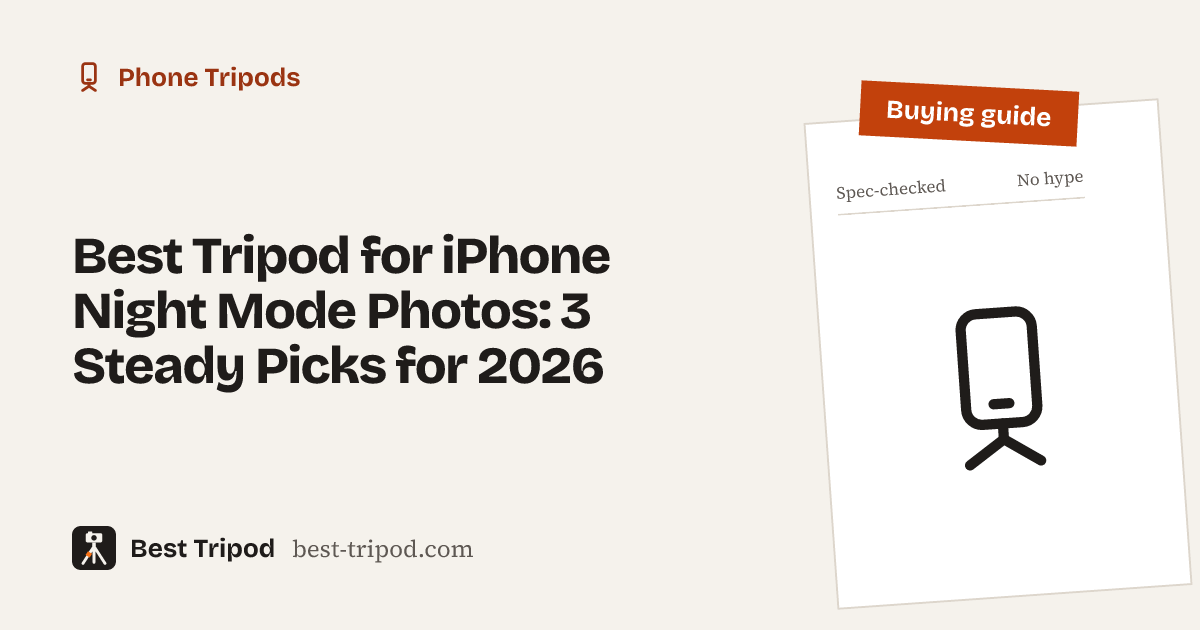
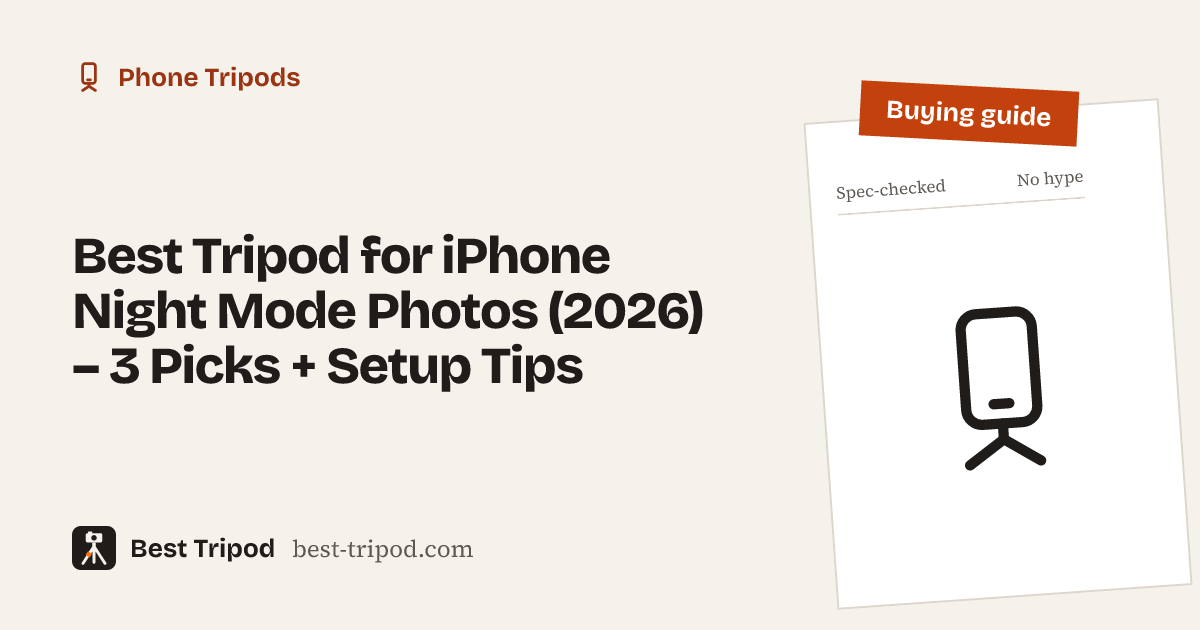
Featured images and hero alt text use the new titles
Re-renders every English post's hero and featured image from its current title (the
old images still showed the colon titles) and writes alt text as 'Title – Site
guide' instead of 'Title: Site guide'; translation alt text drops colons too.

Claude-Session: https://claude.ai/code/session_01TD7XAAbqJRP3B3BmqRVTG4

Changed region(s): [[0.0617, 0.4524, 0.5858, 0.6333]]

diff --git a/src/content/blog/best-tripod-for-iphone-night-mode-photos.md b/src/content/blog/best-tripod-for-iphone-night-mode-photos.md
@@ -1,6 +1,6 @@
 ---
-title: 'Best Tripod for iPhone Night Mode Photos (2026) – 3 Picks + Setup Tips'
-seoTitle: 'Best Tripod for iPhone Night Mode Photos (2026) – 3 Picks'
+title: Best Tripod for iPhone Night Mode Photos (2026) – 3 Picks + Setup Tips
+seoTitle: Best Tripod for iPhone Night Mode Photos (2026) – 3 Picks
 description: >-
   The best tripod for iPhone night mode photos keeps the phone still for
   multi-second exposures. We compare 3 picks on load, clamp fit and owner
@@ -335,8 +335,8 @@ related:
   - monopod-vs-tripod-for-sports-photography
 heroImage: /images/featured/best-tripod-for-iphone-night-mode-photos.png
 heroAlt: >-
-  Best Tripod for iPhone Night Mode Photos: 3 Steady Picks for 2026: Best Tripod
-  buying guide
+  Best Tripod for iPhone Night Mode Photos (2026) – 3 Picks + Setup Tips – Best
+  Tripod buying guide
 ---
 
 The best tripod for iPhone Night mode photos is the one that keeps the phone perfectly still for several seconds while it gathers light, and lets you start the shot without touching the screen. We compared three small tripods that the top-ranking iPhone tripod guides keep recommending, using maker specs, retailer listings and owner reviews: the [Manfrotto PIXI Mini Tripod Kit with Smartphone Clamp](amzn:Manfrotto+PIXI+Mini+Tripod+Kit+with+Smartphone+Clamp+MKPIXICLAMP-BK) for flat surfaces, the [JOBY GorillaPod 1K Kit](amzn:JOBY+GorillaPod+1K+Kit+compact+tripod+with+ballhead) for railings and rocks, and the [JOBY GripTight ONE GP Stand](amzn:JOBY+GripTight+ONE+GP+Stand+phone+tripod) for your pocket. We did not test them ourselves; everything here comes from published specs and the owner reports we read.

diff --git a/src/content/blog/best-tripod-for-tall-photographers-over-6-feet.md b/src/content/blog/best-tripod-for-tall-photographers-over-6-feet.md
@@ -371,8 +371,8 @@ related:
   - monopod-vs-tripod-for-sports-photography
 heroImage: /images/featured/best-tripod-for-tall-photographers-over-6-feet.png
 heroAlt: >-
-  Best Tripod for Tall Photographers Over 6 Feet: 4 Eye-Level Picks: Best Tripod
-  buying guide
+  Best Tripod for Tall Photographers Over 6 Feet – 4 Eye-Level Picks – Best
+  Tripod buying guide
 ---
 
 The best tripod for tall photographers over 6 feet is one that puts your viewfinder at eye level without a fully raised center column, and very few spec sheets tell you whether a tripod can do that. We compared four tall tripods on manufacturer listings, independent reviews and a small set of owner reports: the [Manfrotto MT055XPRO3](amzn:Manfrotto+MT055XPRO3+tripod) for heavy lenses, the [K&F Concept 90 inch Tripod](amzn:K&F+Concept+90+inch+tripod+overhead+monopod) for sheer height, and two light 74 inch budget models. We did not use these tripods ourselves, so every figure below is a maker's claim or a reviewer's number, and we say which.

diff --git a/src/content/blog/best-phone-tripod-for-vlogging-with-remote.md b/src/content/blog/best-phone-tripod-for-vlogging-with-remote.md
@@ -1,6 +1,6 @@
 ---
-title: 'Best Phone Tripod for Vlogging With Remote – 3 Picks + Pairing Tips'
-seoTitle: 'Best Phone Tripod for Vlogging With Remote (2026) – 3 Picks'
+title: Best Phone Tripod for Vlogging With Remote – 3 Picks + Pairing Tips
+seoTitle: Best Phone Tripod for Vlogging With Remote (2026) – 3 Picks
 description: >-
   The best phone tripod for vlogging with remote, compared on real height,
   remote range, mount type and what owners report, with 3 picks for solo
@@ -345,8 +345,8 @@ faqs:
 author: editorial-team
 heroImage: /images/featured/best-phone-tripod-for-vlogging-with-remote.png
 heroAlt: >-
-  Best Phone Tripod for Vlogging With Remote: 3 Picks for 2026: Best Tripod
-  buying guide
+  Best Phone Tripod for Vlogging With Remote – 3 Picks + Pairing Tips – Best
+  Tripod buying guide
 related:
   - best-tripod-for-iphone-night-mode-photos
 ---

diff --git a/src/content/blog/ball-head-vs-pan-tilt-head-for-landscape-photography.md b/src/content/blog/ball-head-vs-pan-tilt-head-for-landscape-photography.md
@@ -1,6 +1,6 @@
 ---
-title: 'Ball Head vs Pan Tilt Head for Landscape Photography – 5 Picks'
-seoTitle: 'Ball Head vs Pan Tilt Head for Landscape Photography (2026)'
+title: Ball Head vs Pan Tilt Head for Landscape Photography – 5 Picks
+seoTitle: Ball Head vs Pan Tilt Head for Landscape Photography (2026)
 description: >-
   Ball head vs pan tilt head for landscape photography: which is faster, which
   levels horizons better, and 5 heads compared so you can pick the right one.
@@ -344,7 +344,7 @@ faqs:
 author: editorial-team
 heroImage: /images/featured/ball-head-vs-pan-tilt-head-for-landscape-photography.png
 heroAlt: >-
-  Ball Head vs Pan Tilt Head for Landscape Photography: 5 Picks: Best Tripod
+  Ball Head vs Pan Tilt Head for Landscape Photography – 5 Picks – Best Tripod
   comparison
 related:
   - best-video-tripod-with-fluid-head-for-beginners

diff --git a/src/content/blog/best-mini-tripod-for-desk-video-calls.md b/src/content/blog/best-mini-tripod-for-desk-video-calls.md
@@ -1,6 +1,6 @@
 ---
-title: 'Best Mini Tripod for Desk Video Calls – 3 Picks for 2026'
-seoTitle: 'Best Mini Tripod for Desk Video Calls (2026) – 3 Under 1 lb'
+title: Best Mini Tripod for Desk Video Calls – 3 Picks for 2026
+seoTitle: Best Mini Tripod for Desk Video Calls (2026) – 3 Under 1 lb
 description: >-
   The best mini tripod for desk video calls, compared on real desk height, load
   for a webcam, phone or mirrorless camera, packed size and Arca-Swiss plates.
@@ -331,7 +331,7 @@ faqs:
 author: editorial-team
 heroImage: /images/featured/best-mini-tripod-for-desk-video-calls.png
 heroAlt: >-
-  Best Mini Tripod for Desk Video Calls: 3 Picks for 2026: Best Tripod buying
+  Best Mini Tripod for Desk Video Calls – 3 Picks for 2026 – Best Tripod buying
   guide
 related:
   - what-is-an-arca-swiss-plate-and-do-i-need-one

diff --git a/src/content/blog/best-travel-tripod-for-mirrorless-camera.md b/src/content/blog/best-travel-tripod-for-mirrorless-camera.md
@@ -1,6 +1,6 @@
 ---
 title: Best Travel Tripod for Mirrorless Camera Kits in 2026 (15 Picks)
-seoTitle: 'Best Travel Tripod for Mirrorless Camera (2026) – 15 Picks'
+seoTitle: Best Travel Tripod for Mirrorless Camera (2026) – 15 Picks
 description: >-
   The best travel tripod for mirrorless camera kits balances load, folded length
   and column-down height. Compare 15 picks, a spec table and a carry-on guide.
@@ -1063,7 +1063,7 @@ faqs:
 author: editorial-team
 heroImage: /images/featured/best-travel-tripod-for-mirrorless-camera.png
 heroAlt: >-
-  Best Travel Tripod for Mirrorless Camera Kits in 2026 (15 Picks): Best Tripod
+  Best Travel Tripod for Mirrorless Camera Kits in 2026 (15 Picks) – Best Tripod
   buying guide
 related:
   - best-tripod-for-iphone-night-mode-photos

diff --git a/src/content/blog/best-video-tripod-with-fluid-head-for-beginners.md b/src/content/blog/best-video-tripod-with-fluid-head-for-beginners.md
@@ -1,5 +1,5 @@
 ---
-title: 'Best Video Tripod With Fluid Head for Beginners – 3 Picks (2026)'
+title: Best Video Tripod With Fluid Head for Beginners – 3 Picks (2026)
 seoTitle: Best Video Tripod With Fluid Head for Beginners (3 Picks)
 description: >-
   The best video tripod with fluid head for beginners, compared on payload,
@@ -314,7 +314,7 @@ faqs:
 author: editorial-team
 heroImage: /images/featured/best-video-tripod-with-fluid-head-for-beginners.png
 heroAlt: >-
-  Best Video Tripod With Fluid Head for Beginners: 3 Picks (2026): Best Tripod
+  Best Video Tripod With Fluid Head for Beginners – 3 Picks (2026) – Best Tripod
   buying guide
 related:
   - best-mini-tripod-for-desk-video-calls

diff --git a/src/content/blog/how-tall-should-a-tripod-be-for-my-height.md b/src/content/blog/how-tall-should-a-tripod-be-for-my-height.md
@@ -211,7 +211,7 @@ faqs:
       hunching over every frame.
 author: editorial-team
 heroImage: /images/featured/how-tall-should-a-tripod-be-for-my-height.png
-heroAlt: 'How Tall Should a Tripod Be for My Height? Chart and Math: Best Tripod guide'
+heroAlt: How Tall Should a Tripod Be for My Height? Chart and Math – Best Tripod guide
 related:
   - best-tripod-for-real-estate-photography
   - best-tripod-for-tall-photographers-over-6-feet

diff --git a/src/content/blog/es/mejor-tripode-de-video-con-cabezal-fluido-para-principiantes.md b/src/content/blog/es/mejor-tripode-de-video-con-cabezal-fluido-para-principiantes.md
@@ -345,7 +345,7 @@ faqs:
 author: editorial-team
 heroImage: /images/featured/best-video-tripod-with-fluid-head-for-beginners.png
 heroAlt: >-
-  Trípode de vídeo con cabezal fluido para principiantes: 3 opciones (2026),
+  Trípode de vídeo con cabezal fluido para principiantes – 3 opciones (2026),
   guía de compra de Best Tripod
 related:
   - es/mejor-tripode-para-movil-para-vlogs-con-control-remoto

diff --git a/src/content/blog/best-tripod-for-real-estate-photography.md b/src/content/blog/best-tripod-for-real-estate-photography.md
@@ -546,7 +546,7 @@ faqs:
       screws, so check them before each shoot.
 heroImage: /images/featured/best-tripod-for-real-estate-photography.png
 heroAlt: >-
-  Best Tripod for Real Estate Photography: 7 Picks for Level Interiors: Best
+  Best Tripod for Real Estate Photography – 7 Picks for Level Interiors – Best
   Tripod buying guide
 related:
   - best-monopod-with-feet-for-wildlife-photography

diff --git a/src/content/blog/es/mejor-tripode-de-viaje-para-camara-mirrorless.md b/src/content/blog/es/mejor-tripode-de-viaje-para-camara-mirrorless.md
@@ -1095,7 +1095,7 @@ faqs:
 author: editorial-team
 heroImage: /images/featured/best-travel-tripod-for-mirrorless-camera.png
 heroAlt: >-
-  Mejor trípode de viaje para cámara mirrorless (2026): 15 opciones, guía de
+  Mejor trípode de viaje para cámara mirrorless (2026) – 15 opciones, guía de
   compra de Best Tripod
 related:
   - es/mejor-tripode-para-movil-para-vlogs-con-control-remoto

diff --git a/src/content/blog/de/bestes-reisestativ-fuer-spiegellose-kamera.md b/src/content/blog/de/bestes-reisestativ-fuer-spiegellose-kamera.md
@@ -1098,7 +1098,7 @@ faqs:
 author: editorial-team
 heroImage: /images/featured/best-travel-tripod-for-mirrorless-camera.png
 heroAlt: >-
-  Bestes Reisestativ für spiegellose Kamera (2026): 15 Empfehlungen, Kaufratgeber
+  Bestes Reisestativ für spiegellose Kamera (2026) – 15 Empfehlungen, Kaufratgeber
   von Best Tripod
 related:
   - de/bestes-handy-stativ-fuer-vlogging-mit-fernbedienung
